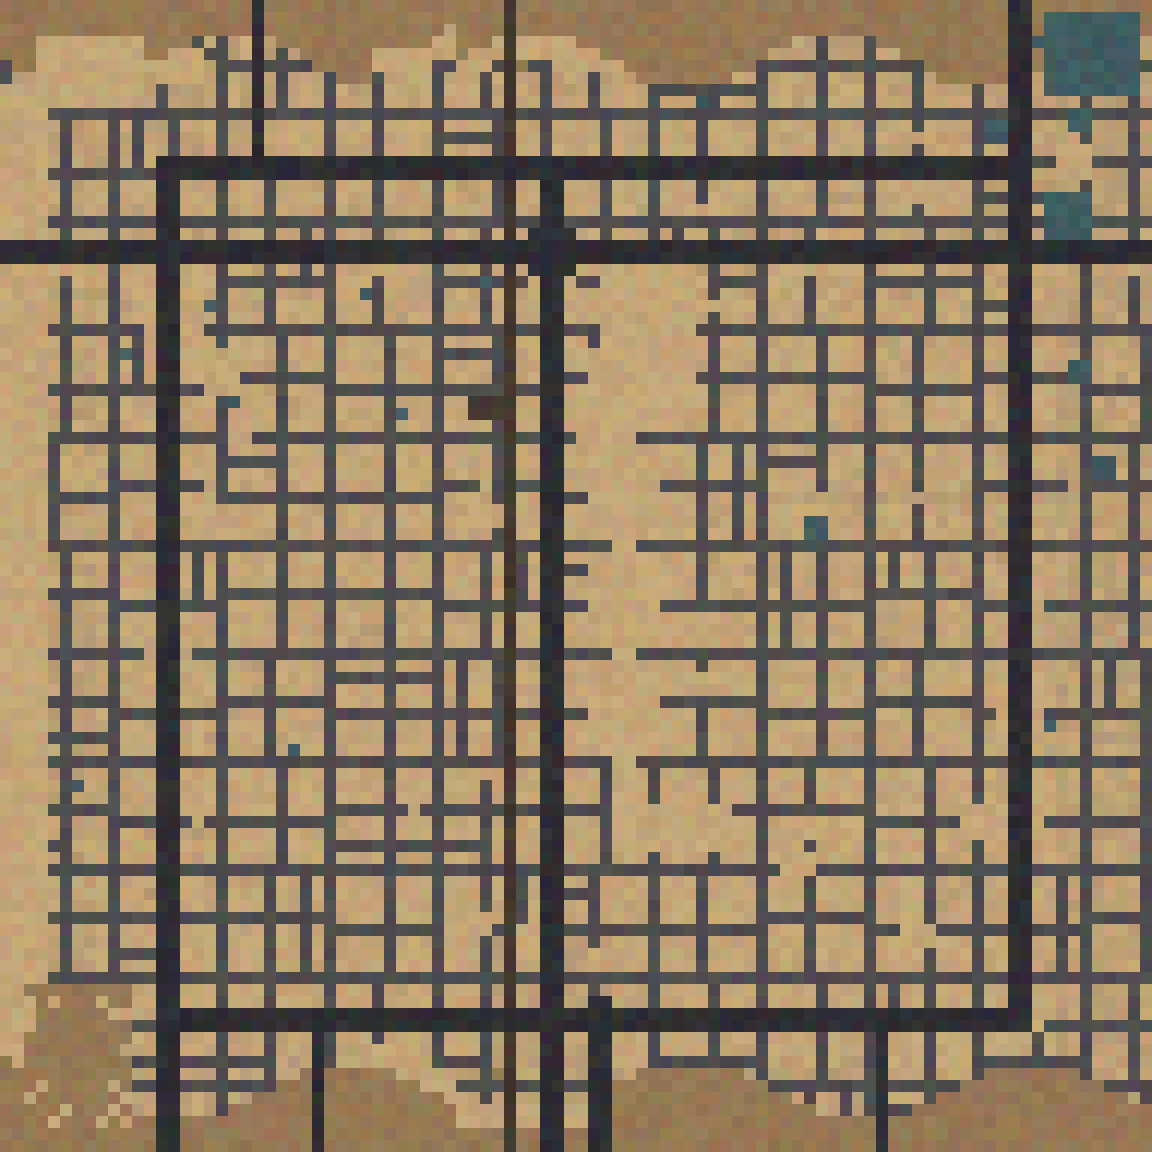
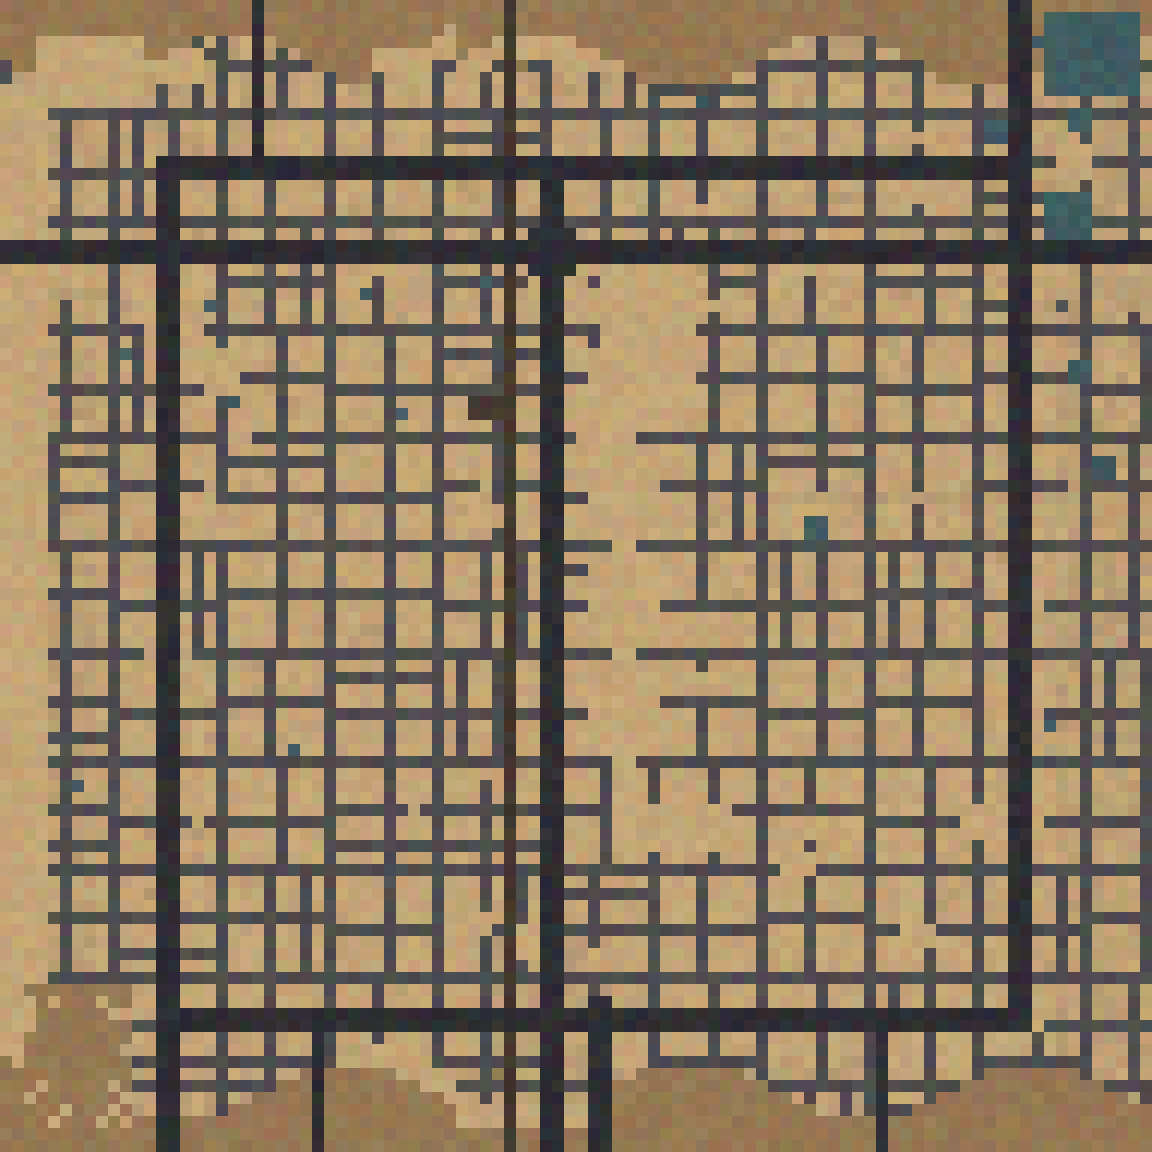
NO-STREET-BREAK LAW: the mile grid runs continuous (Paolo's ruling)
Paolo, on the first aerial city map: "there should really be no breaking
in any of the street layouts... unless it is the strip and its casinos,
big architecture." A couple streets dead-ended mid-block from the
previous generation. Fixed at the root:

- engine/bohemia_overmap.js: removed the `half` truncation that let extra
  local streets dead-end, AND added a STREET DEAD-END PRUNE post-pass that
  runs last (after the freeway sweep + parallel-side-street pass, the two
  passes that left streets dangling). It iteratively returns any arterial
  stub whose only non-road neighbors are OPEN desert/suburb back to desert.
- a street may now only END at something real: map edge, water, mountain,
  wash, freeway, or claimed big architecture (Strip/casino/estate/mall/
  solar/gated/airport/...). Ending into an empty lot is the banned break.

Result (seed 12345): 56 breaks -> 0. 2503 arterials, mile grid intact.

New law = new gate, same turn: gates/street_connectivity_gate.js wired as
STREET CONNECT (gate #19). Addendum: laws/BOHEMIA_ADDENDUM_NO_STREET_
BREAK_7_18_26.md. Canon index regenerated. Does NOT conflict with the
cul-de-sac canon (that lives in the suburb PLOT interior, a finer layer).

City map re-rendered clean. Engine tests 105/105. ALL 19 GATES GREEN.

Claude-Session: https://claude.ai/code/session_01SDyT8dAr851cnRpBcrw9JJ

diff --git a/engine/bohemia_overmap.js b/engine/bohemia_overmap.js
@@ -582,18 +582,22 @@ function skeleton(x,y,L){
   // SURFACE STREETS THROUGH THE BLOCKS (Paolo 7/5/26, grounded): real Vegas
   // runs ~10 blocks per mile and collectors at half-mile spacing, so every mile
   // block ALWAYS gets a full collector both ways (quarters of ~4x4), and 40%
-  // roll an EXTRA local split which may dead-end mid-block (streets that do
-  // not run through). No giant interior masses.
+  // roll an EXTRA local split.
+  // NO-STREET-BREAK LAW (Paolo 7/18/26): every surface street runs THROUGH,
+  // connecting arterial to arterial — no mid-block dead-ends. Only the Strip
+  // and its casinos (big architecture, handled above) interrupt the grid.
+  // The old `half` truncation that dead-ended extras is REMOVED; the curvy
+  // cul-de-sac character lives in the suburb PLOT interior (a finer layer),
+  // not the overmap arterial grid. Gate: street_connectivity_gate.js.
   const bx=(x/9)|0, by=(y/9)|0, hb=hash2(L.seed,bx,by);
   const colPick=4+((hb>>>3)&1), rowPick=4+((hb>>>5)&1);
   if((x%9)===colPick)return DISTRICT.ARTERIAL;       // full collector, always
   if((y%9)===rowPick)return DISTRICT.ARTERIAL;       // full collector, always
   const extra=hb%10;                                  // 40%: one extra local street
-  const half=((hb>>>10)&1)===1;                       // extras may dead-end
-  if(extra<2){ const c2=colPick<=4?7:2;               // second col
-    if((x%9)===c2&&(!half||(y%9)<=rowPick))return DISTRICT.ARTERIAL; }
-  else if(extra<4){ const r2=rowPick<=4?7:2;          // second row
-    if((y%9)===r2&&(!half||(x%9)<=colPick))return DISTRICT.ARTERIAL; }
+  if(extra<2){ const c2=colPick<=4?7:2;               // second col, runs FULL
+    if((x%9)===c2)return DISTRICT.ARTERIAL; }
+  else if(extra<4){ const r2=rowPick<=4?7:2;          // second row, runs FULL
+    if((y%9)===r2)return DISTRICT.ARTERIAL; }
   return null;
 }
 
@@ -820,6 +824,35 @@ function buildOvermap(seed){
   for(const t of tiles){ if(t.district!==DISTRICT.COMMERCIAL)continue;
     const n=[at(t.x+1,t.y),at(t.x-1,t.y),at(t.x,t.y+1),at(t.x,t.y-1)];
     if(!n.some(nn=>nn&&ROAD[nn.district])) t.district=DISTRICT.SUBURB;
+  }
+  // STREET DEAD-END PRUNE (Paolo 7/18/26, NO-STREET-BREAK LAW): runs LAST, so
+  // the stubs left dangling by the freeway sweep + parallel-side-street pass
+  // get healed. Iteratively return any surface-street cell that dead-ends into
+  // buildable lots (<=1 road neighbor, no real terminator, not the map edge)
+  // back to desert, until the grid has no mid-block breaks. Mile arterials
+  // (x%9==0 || y%9==0) are the grade-separated spine and are never pruned;
+  // streets ending at a freeway/water/mountain/wash/strip/edge are real ends.
+  // OPEN = the only two "empty lot" districts a street must NOT dead-end into.
+  // Ending at ANYTHING else (a freeway, water, mountain, wash, OR any claimed
+  // big-architecture landmark: strip/casino/estate/mall/solar/gated/airport/
+  // ...) is a real, legitimate street end, not a break.
+  {
+    const OPEN={desert:1,suburb:1};
+    let changed=true, guard=0;
+    while(changed && guard++<60){ changed=false;
+      for(const t of tiles){ if(t.district!==DISTRICT.ARTERIAL)continue;
+        if(t.x%9===0||t.y%9===0)continue;
+        let roadN=0, termN=0, edge=false;
+        for(const [dx,dy] of [[1,0],[-1,0],[0,1],[0,-1]]){
+          const nn=at(t.x+dx,t.y+dy);
+          if(!nn){edge=true;continue;}
+          if(ROAD[nn.district])roadN++; else if(!OPEN[nn.district])termN++;
+        }
+        // a dangling stub: <=1 road neighbor and NO real terminator, only open
+        // lots around it -> it breaks into empty desert. Return it to desert.
+        if(roadN<=1 && termN===0 && !edge){ t.district=DISTRICT.DESERT; changed=true; }
+      }
+    }
   }
   // ===== UNDERGROUND THIRD LAYER (Paolo 7/5/26) =====
   // Storm tunnels (the wash system the Homeless live in, 600+ real miles),

diff --git a/gates/street_connectivity_gate.js b/gates/street_connectivity_gate.js
@@ -1,0 +1,45 @@
+// STREET CONNECTIVITY GATE (Paolo 7/18/26: NO-STREET-BREAK LAW)
+// The surface-street grid must run continuous — no street dead-ends into an
+// empty buildable lot. A street may legitimately END at anything real: the
+// map edge, water, mountain, wash, the freeway, OR any claimed big-architecture
+// landmark (the Strip, casinos, estates, malls, solar, gated communities,
+// airport, ...). The ONLY illegitimate end is dead-ending into OPEN desert or
+// suburb lots with nothing there — that is the "broken off" street Paolo saw.
+const O = require('../engine/bohemia_overmap.js');
+let pass = 0, fail = 0;
+function ok(n, c) { c ? pass++ : (fail++, console.log('  FAIL: ' + n)); }
+
+const m = O.buildOvermap(12345);
+const N = m.n;
+const ROAD = new Set(['arterial', 'freeway', 'strip', 'beltway', 'interchange', 'downtown', 'town']);
+const OPEN = new Set(['desert', 'suburb']);   // the only empty-lot districts
+const d4 = [[1, 0], [-1, 0], [0, 1], [0, -1]];
+
+let breaks = 0, sample = [];
+for (let y = 0; y < N; y++) for (let x = 0; x < N; x++) {
+  if (m.at(x, y).district !== 'arterial') continue;
+  let roadN = 0, termN = 0, edge = false;
+  for (const [dx, dy] of d4) {
+    const c = m.at(x + dx, y + dy);
+    if (!c) { edge = true; continue; }
+    if (ROAD.has(c.district)) roadN++;
+    else if (!OPEN.has(c.district)) termN++;      // a real terminator
+  }
+  // a break: <=1 road neighbor, no real terminator beside it, not the map edge
+  // -> the street just stops in an open lot.
+  if (roadN <= 1 && termN === 0 && !edge) {
+    breaks++;
+    if (sample.length < 10) sample.push(x + ',' + y);
+  }
+}
+ok('no surface street dead-ends into an empty lot (NO-STREET-BREAK LAW)', breaks === 0);
+if (breaks) console.log('  street breaks: ' + breaks + ' e.g. ' + sample.join(' '));
+
+// sanity: the mile grid is still dense and continuous (the spine survived)
+let arts = 0;
+for (const t of m.tiles) if (t.district === 'arterial') arts++;
+ok('mile grid intact (>= 2000 arterial cells)', arts >= 2000);
+
+console.log('STREET CONNECTIVITY GATE: ' + pass + ' passed, ' + fail + ' failed  (' +
+  breaks + ' breaks, ' + arts + ' arterials)');
+process.exit(fail ? 1 : 0);

diff --git a/gates/bohemia_gates.py b/gates/bohemia_gates.py
@@ -38,6 +38,8 @@ GATES = [
      'sidewalk sanctity', False),
     ('LINE COLOR',     ['node', 'gates/line_gate.js'],
      'yellow=direction, white=lane', False),
+    ('STREET CONNECT', ['node', 'gates/street_connectivity_gate.js'],
+     'no street dead-ends into empty lots', False),
     ('TAN WALL',       ['node', 'gates/tan_gate.js'],
      '85/15 tan, independent of weathering', False),
     ('ITEM SCALE',     ['node', 'gates/scale_gate.js'],

diff --git a/laws/BOHEMIA_ADDENDUM_NO_STREET_BREAK_7_18_26.md b/laws/BOHEMIA_ADDENDUM_NO_STREET_BREAK_7_18_26.md
@@ -1,0 +1,41 @@
+# BOHEMIA ADDENDUM — NO-STREET-BREAK LAW (Paolo 7/18/26, LOCKED)
+
+Ruled while looking at the first aerial city map: "there should really be no
+breaking in any of the street layouts... a couple of the streets are broken
+off from each other and that was from the previous generation... unless it is
+the strip and its casinos that's gonna be really big architecture."
+
+## THE LAW
+The overmap surface-street grid runs CONTINUOUS. No street dead-ends into an
+empty buildable lot. A street may legitimately END only at something real:
+the map edge, water, mountain, wash, the freeway, OR any claimed
+big-architecture landmark (the Strip and its casinos, estates, malls, solar
+fields, gated communities, the airport, downtown, etc.). Ending into OPEN
+desert or suburb — a street just stopping in nothing — is the banned "break."
+
+Big architecture (the Strip and casinos above all) is the ONLY thing allowed
+to interrupt the grid, because it is a mass unto itself.
+
+## WHAT CHANGED (engine/bohemia_overmap.js)
+1. The old `half` truncation that let extra local streets dead-end mid-block
+   is REMOVED — every surface street now runs through, arterial to arterial.
+2. A STREET DEAD-END PRUNE post-pass runs LAST (after the freeway sweep and
+   the parallel-side-street pass, the two passes that used to leave streets
+   dangling): it iteratively returns any arterial stub whose only non-road
+   neighbors are OPEN (desert/suburb), with <=1 road neighbor and not the map
+   edge, back to desert — until the grid has zero breaks.
+
+Result on seed 12345: 56 breaks -> 0. 2503 arterials, mile grid intact.
+
+## THE GATE (same turn, per the law of laws)
+gates/street_connectivity_gate.js, wired into the suite as STREET CONNECT.
+Fails if any arterial dead-ends into an open lot (<=1 road neighbor, no real
+terminator beside it, not the edge). OPEN = {desert, suburb}; everything else
+is a legitimate street end.
+
+## NOTE ON THE CUL-DE-SAC CANON
+This does NOT conflict with VEGAS_NEIGHBORHOOD_ANATOMY (suburbs are
+curvilinear, loops + culs, discontinuous). That character lives INSIDE the
+suburb PLOT (the fine-tile interior layout, a finer layer, still [PENDING
+Paolo]). The overmap arterial grid — the connective tissue between plots — is
+the mile grid and it stays whole.

diff --git a/BOHEMIA_CANON_INDEX.md b/BOHEMIA_CANON_INDEX.md
@@ -1,11 +1,11 @@
-# BOHEMIA CANON INDEX — regenerated 07/17/26
+# BOHEMIA CANON INDEX — regenerated 07/18/26
 
 **LAW: on any conflict between addenda, the NEWEST date wins.**
 This index is the map. Consult it BEFORE citing an addendum as current.
 A contradiction between two files is a BUG: file it, gate it if mechanical,
 flag it [PENDING Paolo] if canon-level.
 
-129 canon files indexed across 2 locations.
+130 canon files indexed across 2 locations.
 
 ## THE GDD LINEAGE — ALL FOUR ARE LIVE (gated: node gdd_gate.js)
 
@@ -77,7 +77,8 @@ opening line. Each is the SOLE home of load-bearing canon. Never archive one.
 - `BOHEMIA_ADDENDUM_STREETLIGHT_HEIGHT_POWER_7_14_26.md`
 - `BOHEMIA_ADDENDUM_LIGHTING_RESEARCH_7_10_26.md`
 
-### STREETS & BLOCKS (15)
+### STREETS & BLOCKS (16)
+- `BOHEMIA_ADDENDUM_NO_STREET_BREAK_7_18_26.md`
 - `BOHEMIA_ADDENDUM_SIDEWALK_SANCTITY_ENFORCED_7_16_26.md`
 - `BOHEMIA_ADDENDUM_BEYOND_SIDEWALK_RESEARCH_7_14_26.md`
 - `BOHEMIA_ADDENDUM_SIDEWALK_SANCTITY_7_14_26.md`